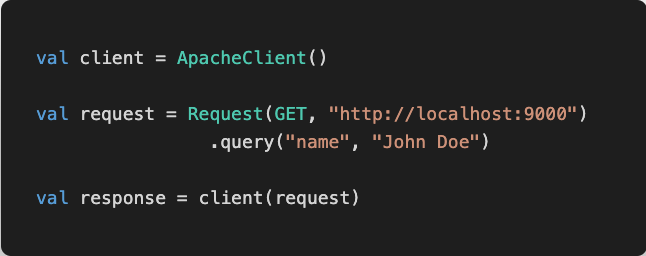
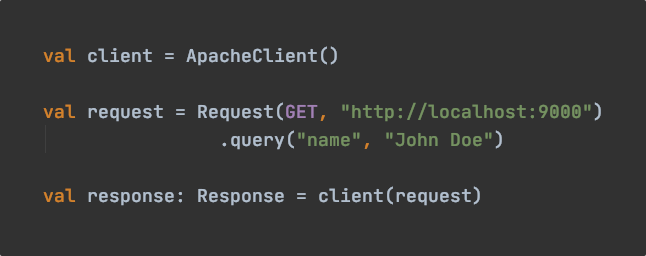
Deployed d79abfe4 with MkDocs version: 1.1.2

diff --git a/index.html b/index.html
@@ -113,14 +113,14 @@
             <h2>HTTP as a Function</h2>
             <div class="row">
                 <div class="col-md-6 text-center">
-                    <img class="img-fluid" src="/img/server.png" alt="Creating a server with http4k"/>
+                    <img class="img-fluid" style="border-radius: 8px" src="/img/server.png" alt="Creating a server with http4k"/>
                     <p>An http4k server is just a regular function that gets invoked with a Request and returns a Response.
                         </br></br>
                         In a single line of code you can switch your server between Java (built-in), Apache, Jetty, Netty, Undertow, Ktor, or Ratpack.
                     </p>
                 </div>
                 <div class="col-md-6 text-center">
-                    <img class="img-fluid" src="/img/client.png" alt="Creating a client with http4k"/>
+                    <img class="img-fluid" style="border-radius: 8px" src="/img/client.png" alt="Creating a client with http4k"/>
                     <p>An http4k client is just a regular function that you invoke with a Request and receives a Response.
                         </br></br>
                         In a single line of code you can switch your client implementation between Java (built-in), Apache, Jetty, and OkHttp.

diff --git a/theme/index.html b/theme/index.html
@@ -47,14 +47,14 @@
             <h2>HTTP as a Function</h2>
             <div class="row">
                 <div class="col-md-6 text-center">
-                    <img class="img-fluid" src="/img/server.png" alt="Creating a server with http4k"/>
+                    <img class="img-fluid" style="border-radius: 8px" src="/img/server.png" alt="Creating a server with http4k"/>
                     <p>An http4k server is just a regular function that gets invoked with a Request and returns a Response.
                         </br></br>
                         In a single line of code you can switch your server between Java (built-in), Apache, Jetty, Netty, Undertow, Ktor, or Ratpack.
                     </p>
                 </div>
                 <div class="col-md-6 text-center">
-                    <img class="img-fluid" src="/img/client.png" alt="Creating a client with http4k"/>
+                    <img class="img-fluid" style="border-radius: 8px" src="/img/client.png" alt="Creating a client with http4k"/>
                     <p>An http4k client is just a regular function that you invoke with a Request and receives a Response.
                         </br></br>
                         In a single line of code you can switch your client implementation between Java (built-in), Apache, Jetty, and OkHttp.

diff --git a/quickstart/screenshots.kt b/quickstart/screenshots.kt
@@ -1,0 +1,30 @@
+package quickstart
+
+import org.http4k.client.ApacheClient
+import org.http4k.core.Method.GET
+import org.http4k.core.Request
+import org.http4k.core.Response
+import org.http4k.core.Status.Companion.OK
+import org.http4k.server.Jetty
+import org.http4k.server.asServer
+
+fun main() {
+
+    val app = { request: Request ->
+        Response(OK)
+            .body("Hello, ${request.query("name")}!")
+    }
+
+    app.asServer(Jetty(9000)).start()
+
+
+    val client = ApacheClient()
+
+    val request = Request(GET, "http://localhost:9000")
+                    .query("name", "John Doe")
+
+    val response: Response = client(request)
+
+
+    println(response)
+}
